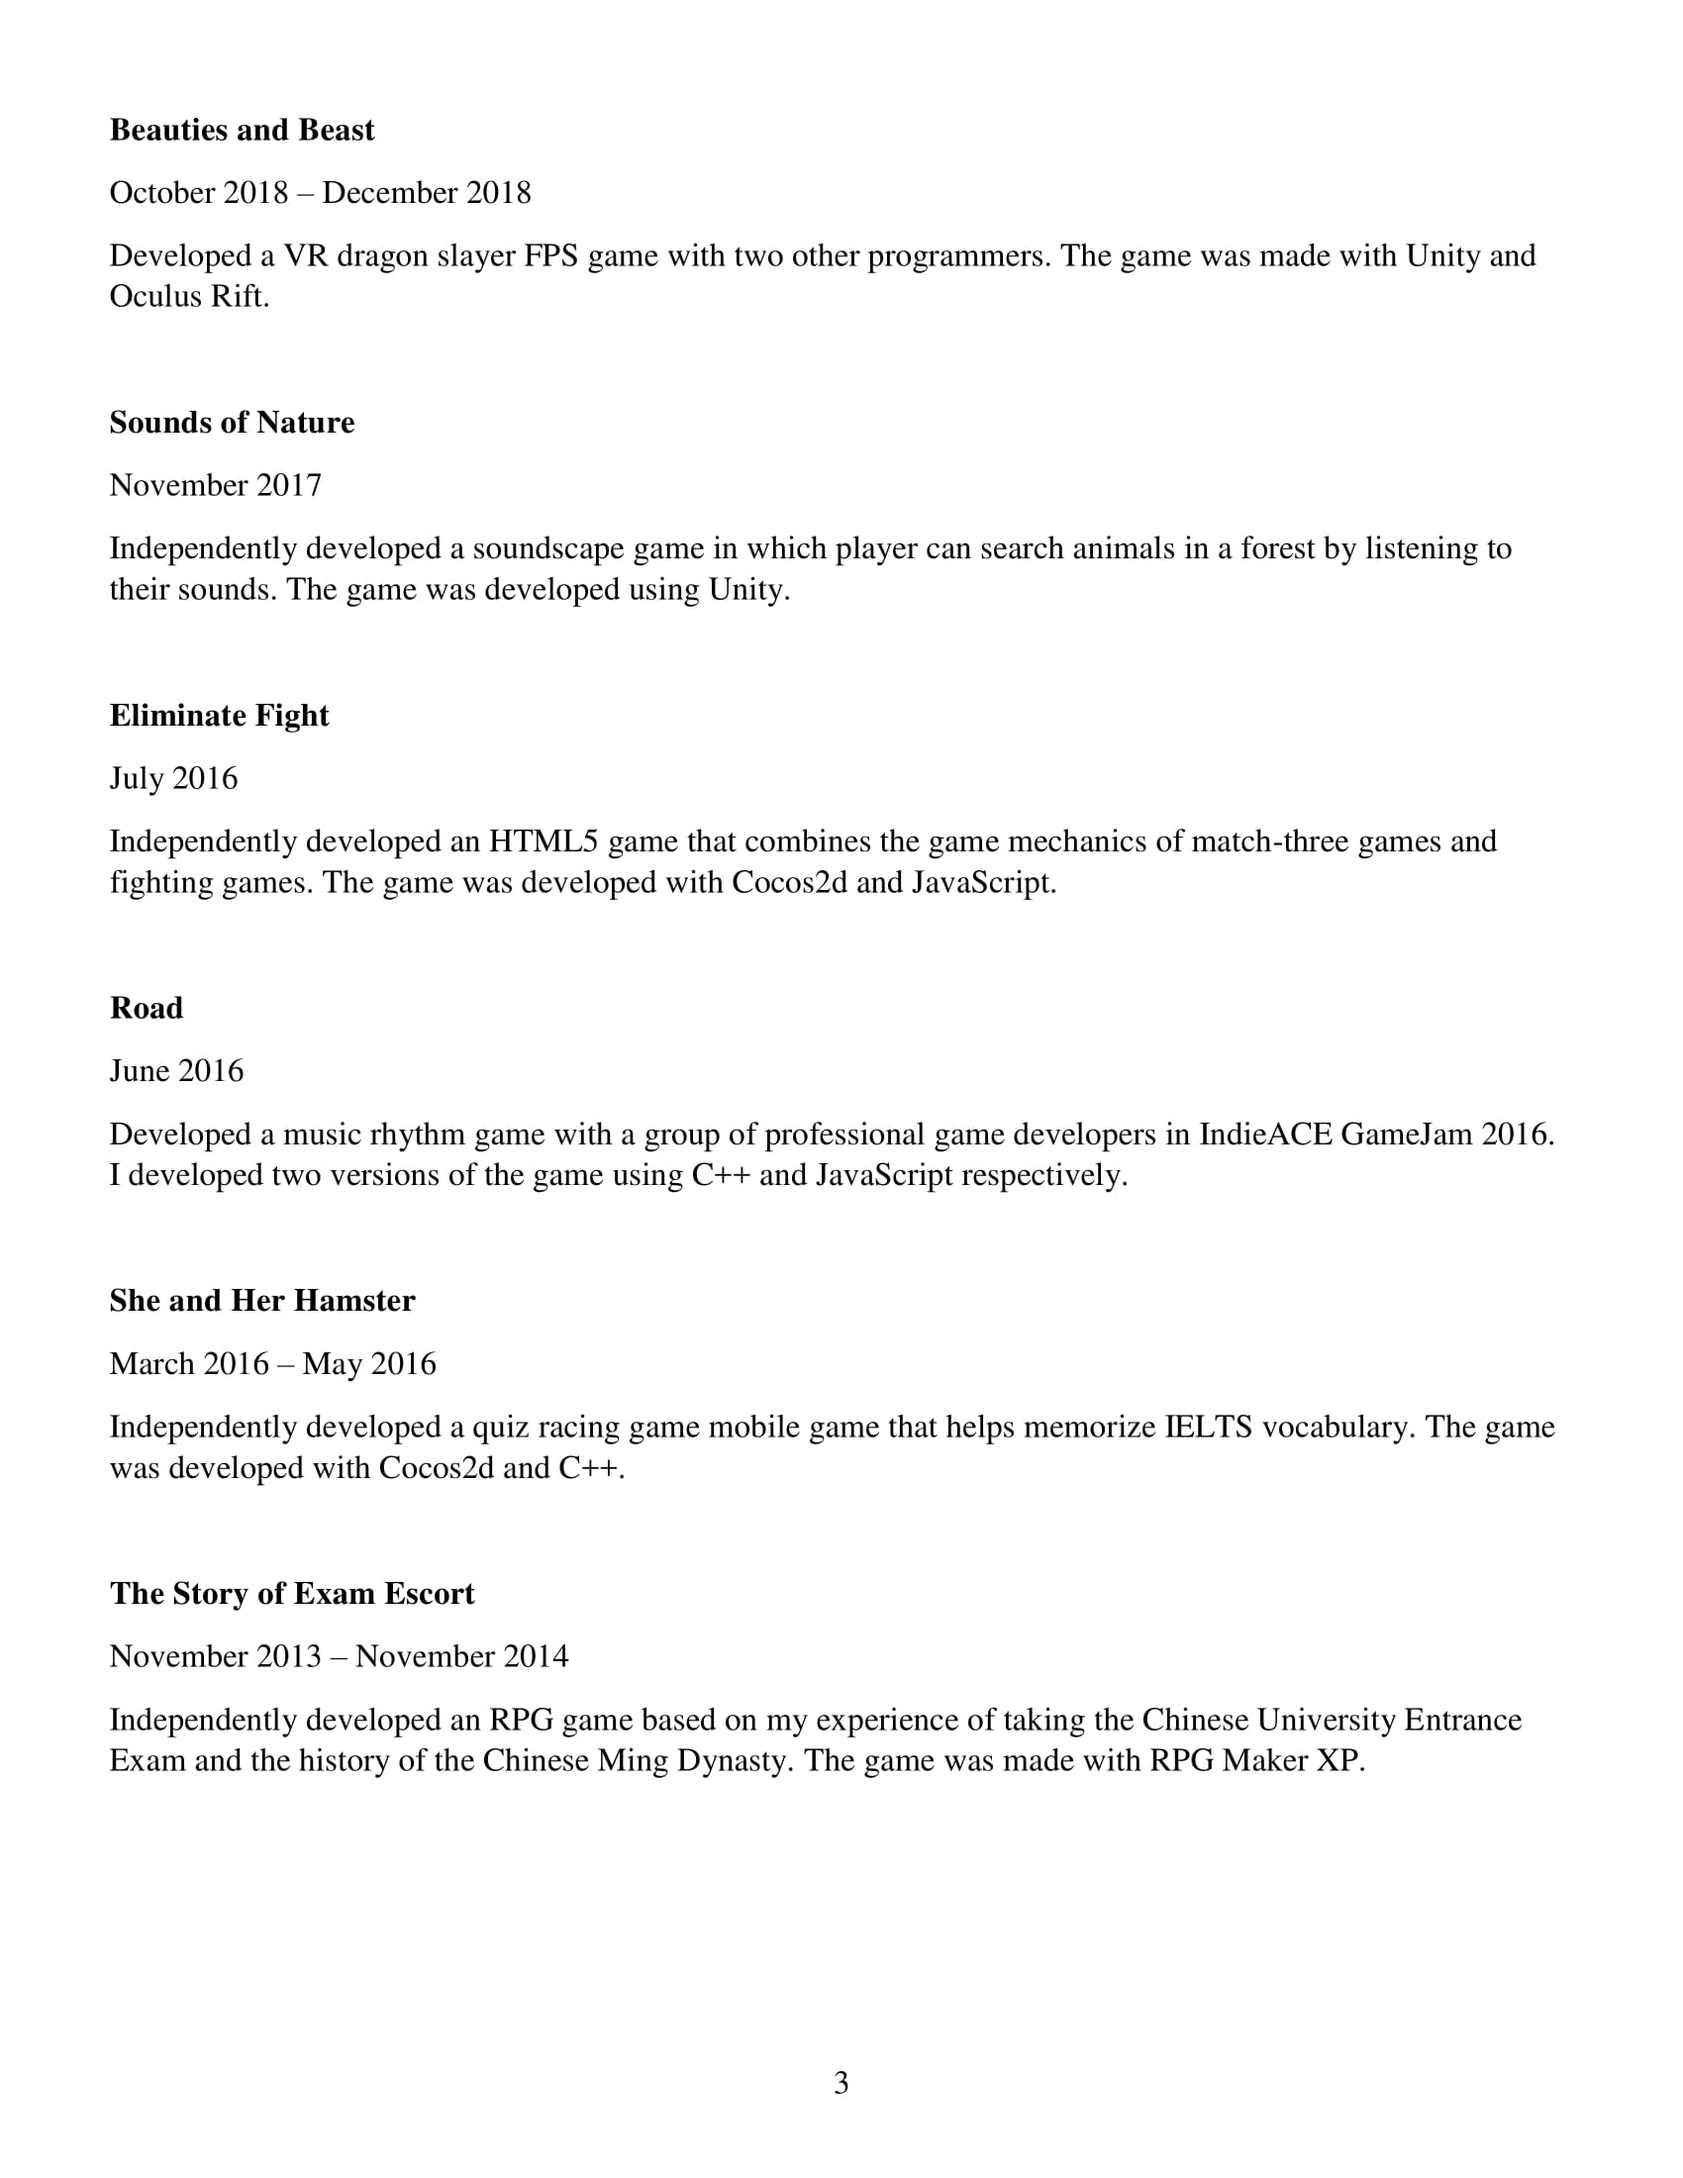
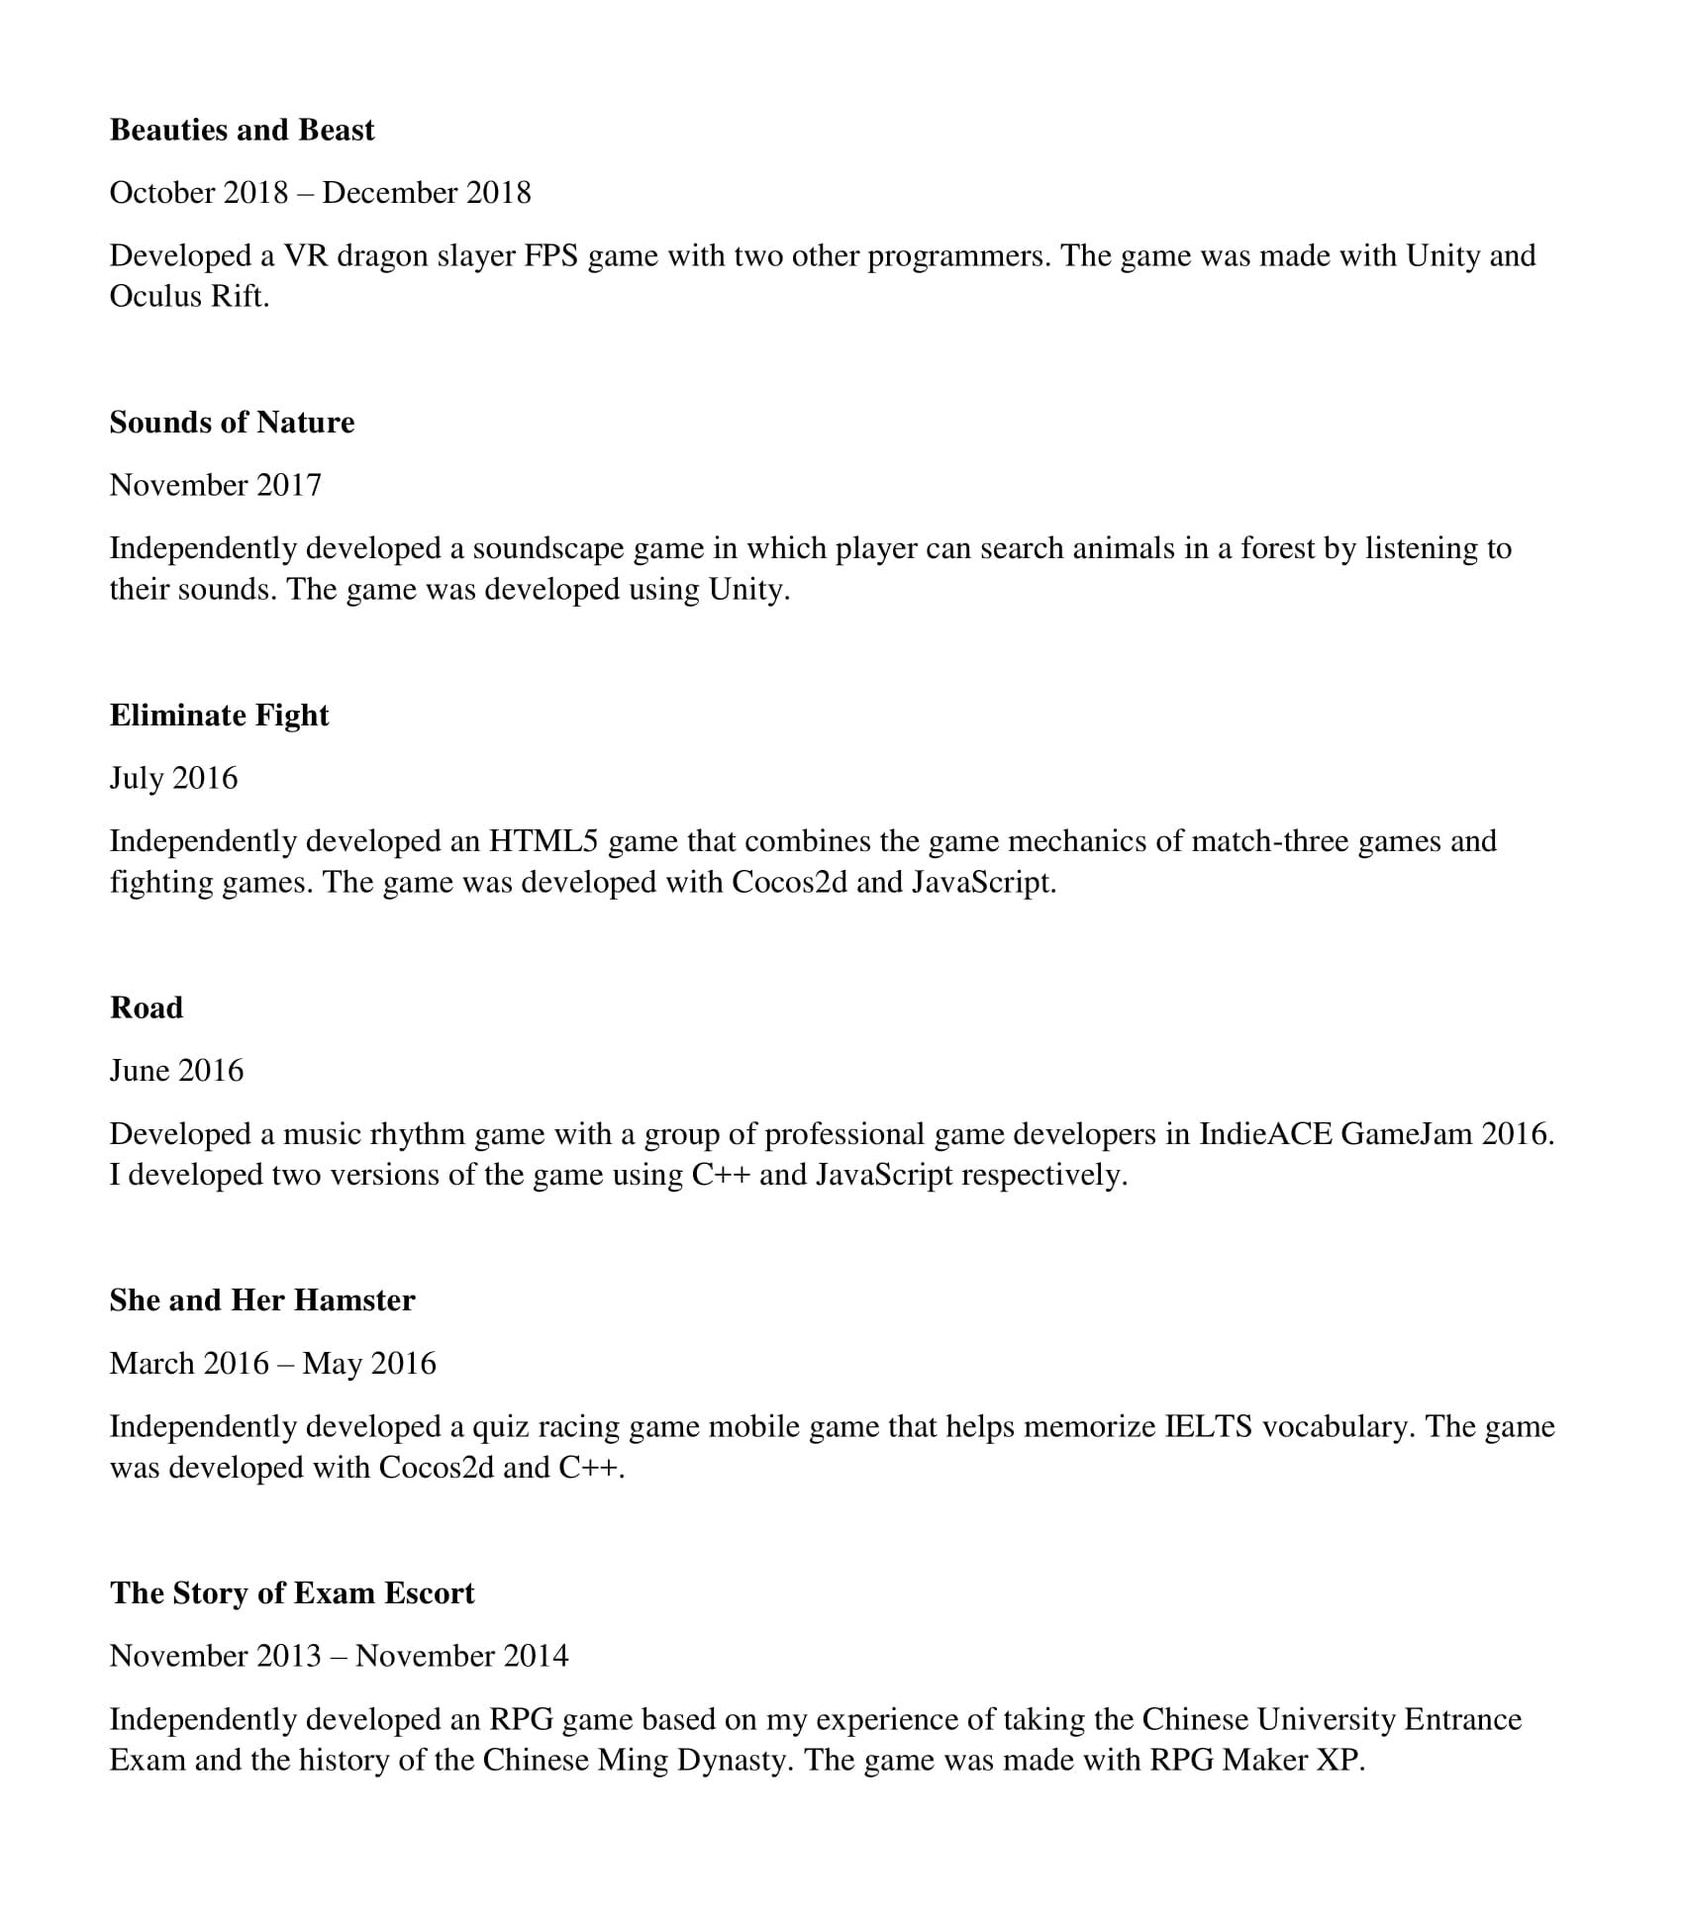
Updated CV.

diff --git a/cv.html b/cv.html
@@ -28,7 +28,7 @@
                 <div class="col-lg-8 col-lg-offset-2 centered">
                     <img class="img-responsive" src="Images/CV/cv_1.jpg" alt="" style="margin-top:-40px; margin-bottom:-64px">
                     <img class="img-responsive" src="Images/CV/cv_2.jpg" alt="" style="margin-top:-64px; margin-bottom:-64px">
-                    <img class="img-responsive" src="Images/CV/cv_3.jpg" alt="" style="margin-top:-64px; margin-bottom:-112px">
+                    <img class="img-responsive" src="Images/CV/cv_3.jpg" alt="" style="margin-top:-64px; margin-bottom:0px;">
                     
                 </div>
 			</div>
